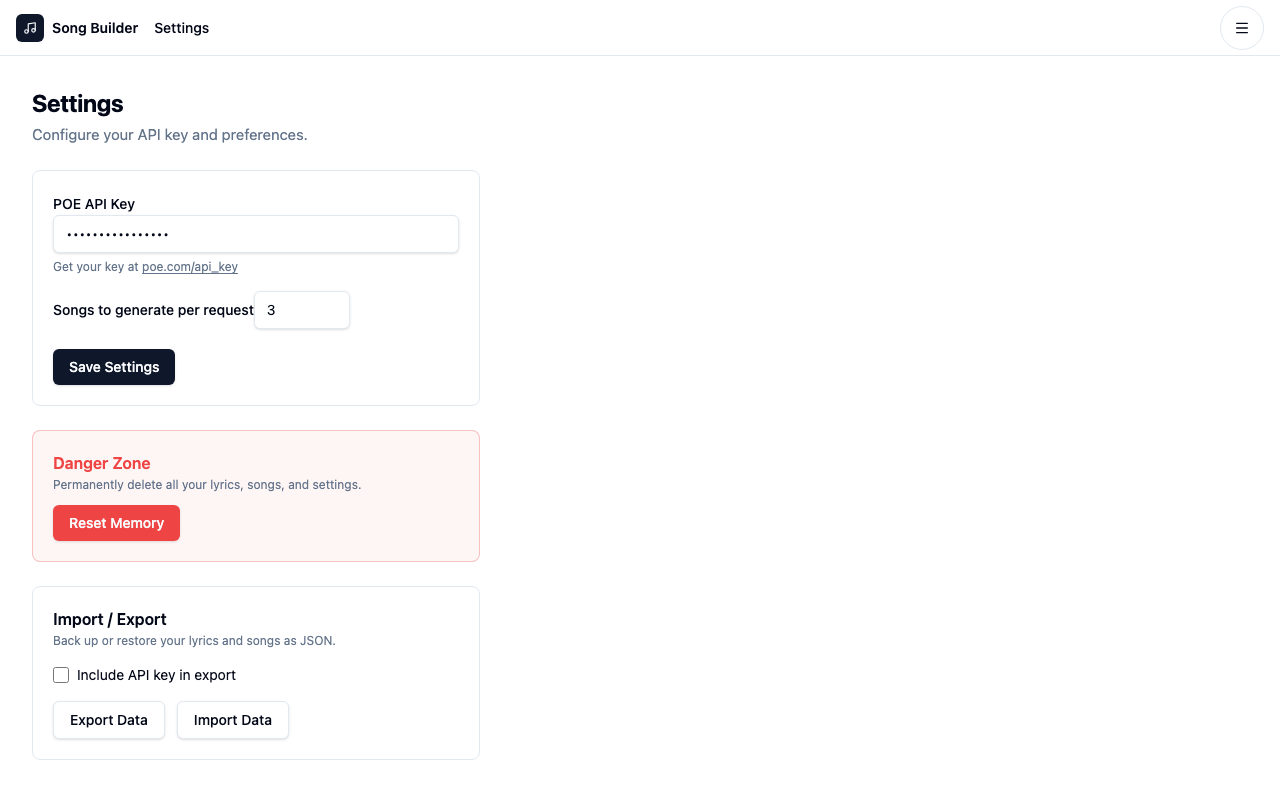
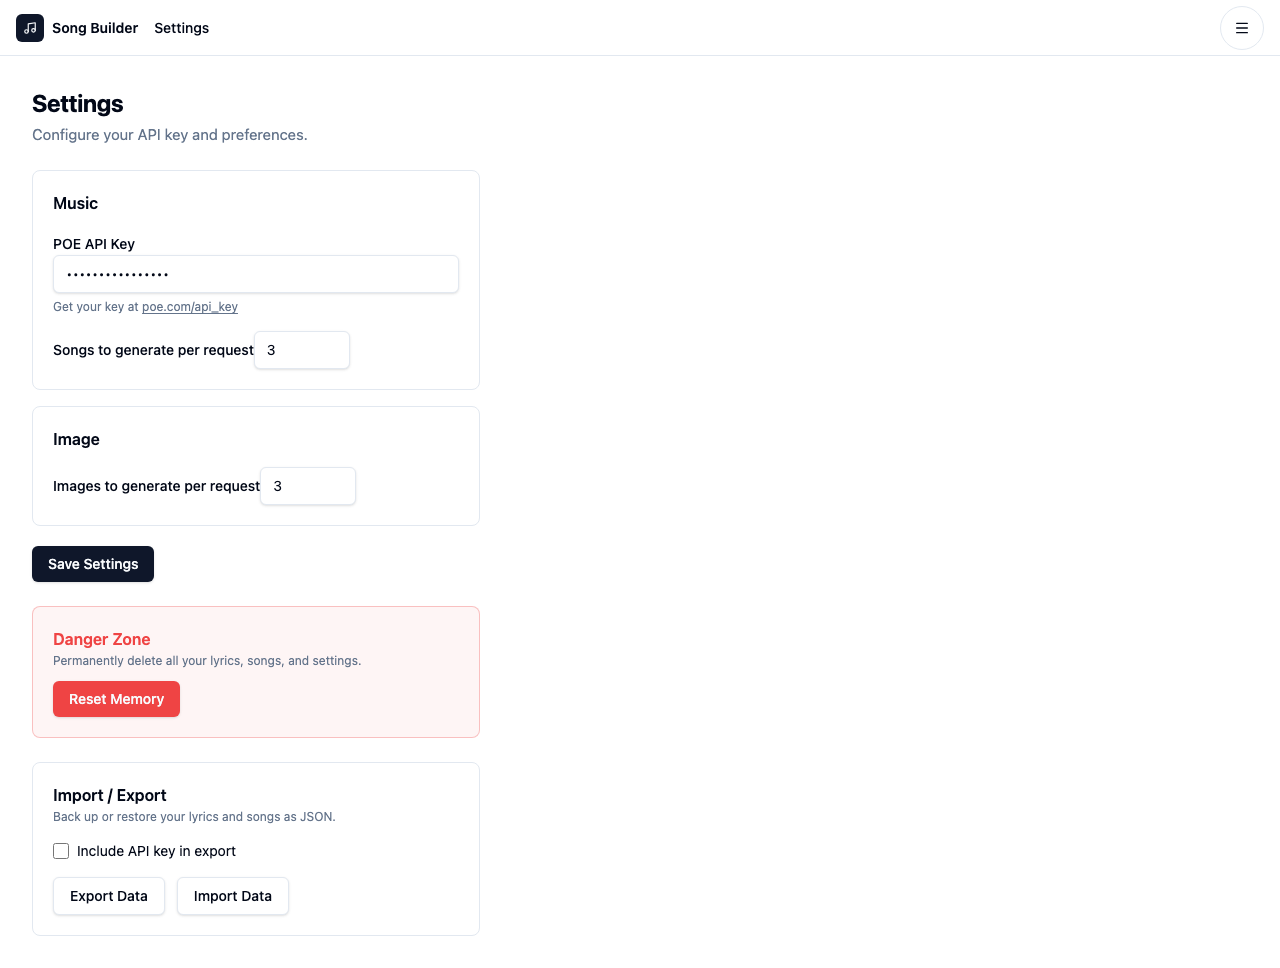
feat(US-011): add Image section to Settings page with numImages field
- Add Image section card below Music section in Settings page
- numImages input (min 1, max 10, default 3) stores to song-builder:image-settings
- Pre-fills numImages from stored image settings on load
- Add named exports getImageSettings/saveImageSettings to image storageService
- Add Music section heading to existing card for visual parity

diff --git a/src/music/pages/Settings.tsx b/src/music/pages/Settings.tsx
@@ -7,12 +7,18 @@ import {
   importStorage,
   resetStorage,
 } from "@/music/lib/storage/storageService";
+import {
+  getImageSettings,
+  saveImageSettings,
+} from "@/image/lib/storage/storageService";
 
 function loadInitialSettings() {
   const settings = getSettings();
+  const imageSettings = getImageSettings();
   return {
     apiKey: settings?.poeApiKey ?? "",
     numSongs: settings?.numSongs ?? 3,
+    numImages: imageSettings?.numImages ?? 3,
   };
 }
 
@@ -21,6 +27,7 @@ export default function Settings() {
   const navigate = useNavigate();
   const [apiKey, setApiKey] = useState(initial.apiKey);
   const [numSongs, setNumSongs] = useState(initial.numSongs);
+  const [numImages, setNumImages] = useState(initial.numImages);
   const [includeApiKey, setIncludeApiKey] = useState(false);
   const [savedMessage, setSavedMessage] = useState("");
   const [importError, setImportError] = useState("");
@@ -30,6 +37,7 @@ export default function Settings() {
   function handleSubmit(e: FormEvent<HTMLFormElement>) {
     e.preventDefault();
     saveSettings({ poeApiKey: apiKey, numSongs });
+    saveImageSettings({ numImages });
     setSavedMessage("Settings saved.");
     setTimeout(() => setSavedMessage(""), 3000);
   }
@@ -89,8 +97,9 @@ export default function Settings() {
       <h1>Settings</h1>
       <p className="text-muted-foreground mt-1">Configure your API key and preferences.</p>
 
-      <form onSubmit={handleSubmit} className="mt-6">
+      <form onSubmit={handleSubmit} className="mt-6 space-y-4">
         <div className="rounded-lg border bg-card p-5 space-y-4">
+          <h2 className="text-base font-semibold">Music</h2>
           <div className="space-y-1.5">
             <label htmlFor="apiKey" className="text-sm font-medium">
               POE API Key
@@ -130,18 +139,36 @@ export default function Settings() {
               className="w-24 rounded-md border border-input bg-background px-3 py-2 text-sm shadow-sm focus-visible:outline-none focus-visible:ring-1 focus-visible:ring-ring"
             />
           </div>
+        </div>
 
-          <div className="flex items-center gap-3 pt-1">
-            <button
-              type="submit"
-              className="inline-flex items-center justify-center rounded-md bg-primary px-4 py-2 text-sm font-medium text-primary-foreground shadow hover:bg-primary/90 focus-visible:outline-none focus-visible:ring-1 focus-visible:ring-ring"
-            >
-              Save Settings
-            </button>
-            {savedMessage && (
-              <p className="text-sm text-green-600">{savedMessage}</p>
-            )}
+        <div className="rounded-lg border bg-card p-5 space-y-4">
+          <h2 className="text-base font-semibold">Image</h2>
+          <div className="space-y-1.5">
+            <label htmlFor="numImages" className="text-sm font-medium">
+              Images to generate per request
+            </label>
+            <input
+              id="numImages"
+              type="number"
+              min={1}
+              max={10}
+              value={numImages}
+              onChange={(e) => setNumImages(Number(e.target.value))}
+              className="w-24 rounded-md border border-input bg-background px-3 py-2 text-sm shadow-sm focus-visible:outline-none focus-visible:ring-1 focus-visible:ring-ring"
+            />
           </div>
+        </div>
+
+        <div className="flex items-center gap-3 pt-1">
+          <button
+            type="submit"
+            className="inline-flex items-center justify-center rounded-md bg-primary px-4 py-2 text-sm font-medium text-primary-foreground shadow hover:bg-primary/90 focus-visible:outline-none focus-visible:ring-1 focus-visible:ring-ring"
+          >
+            Save Settings
+          </button>
+          {savedMessage && (
+            <p className="text-sm text-green-600">{savedMessage}</p>
+          )}
         </div>
       </form>
 

diff --git a/src/image/lib/storage/storageService.ts b/src/image/lib/storage/storageService.ts
@@ -132,11 +132,11 @@ function updateItem(
 
 // ─── Settings ────────────────────────────────────────────────────────────────
 
-function getImageSettings(): ImageSettings | null {
+export function getImageSettings(): ImageSettings | null {
   return readJSON<ImageSettings>(KEYS.settings);
 }
 
-function saveImageSettings(settings: ImageSettings): void {
+export function saveImageSettings(settings: ImageSettings): void {
   writeJSON(KEYS.settings, settings);
 }
 
